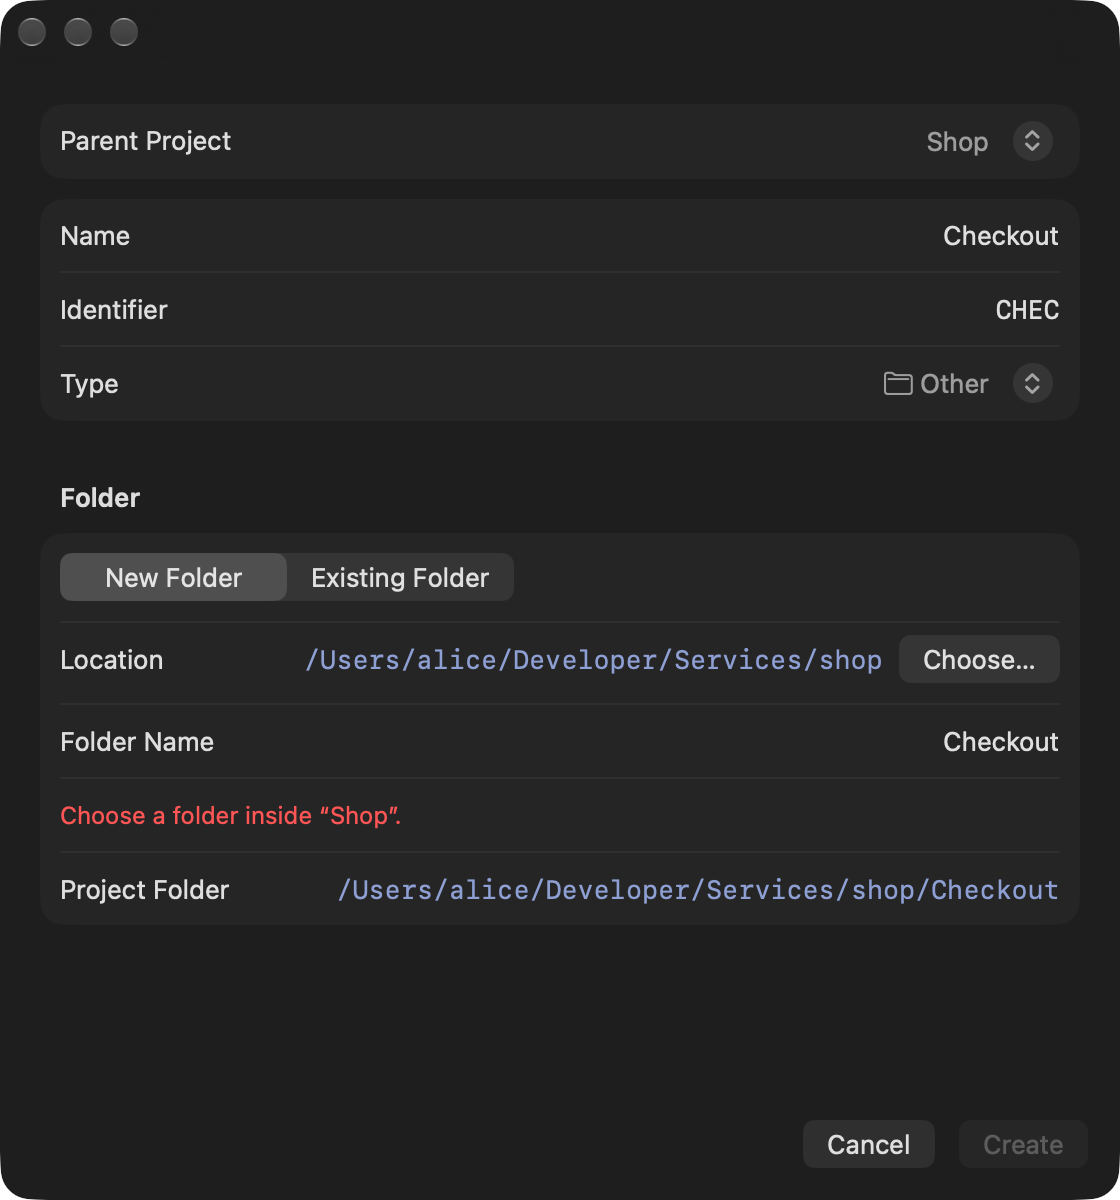
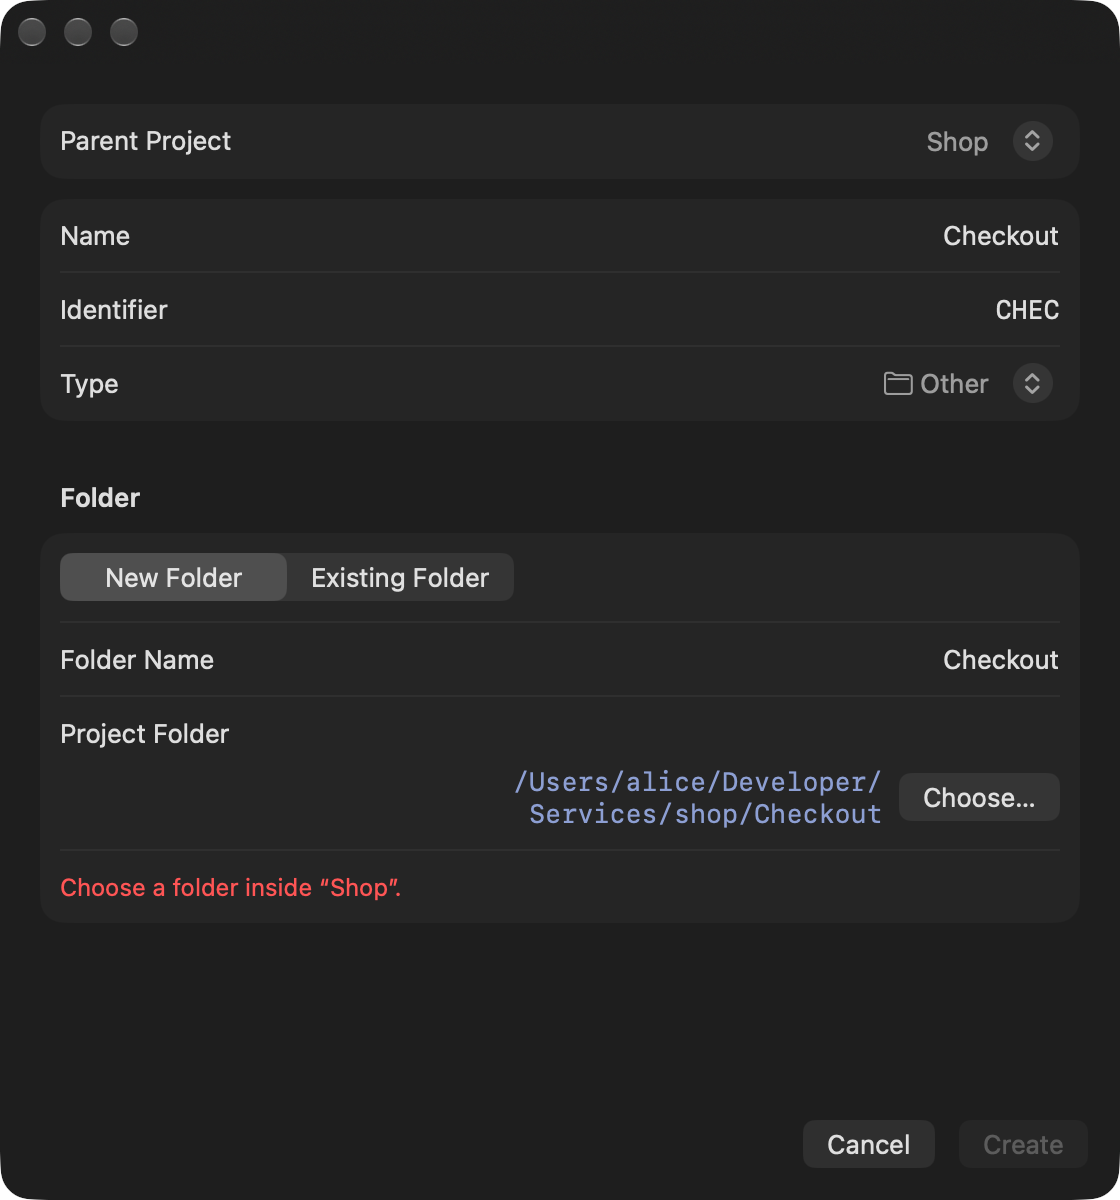
New Project: one Project Folder row with Choose…
The Location row showed the same path as Project Folder, one level up, and
Existing Folder's Folder row the same path again. Both modes now have a
single Project Folder row, the full path with Choose…: for a new folder it
picks the folder that will hold it, for an existing one the folder itself.

diff --git a/HephaestusV3Kit/Sources/ProjectsKit/NewProjectSheet.swift b/HephaestusV3Kit/Sources/ProjectsKit/NewProjectSheet.swift
@@ -64,24 +64,18 @@ struct NewProjectSheet: View {
                     .pickerStyle(.segmented)
                     .labelsHidden()
                     .accessibilityIdentifier("newProject.folderMode")
+                    // One path row: the project's folder, and Choose… for where it goes (a new folder's location) or
+                    // which folder it is (an existing one).
                     switch model.folderMode {
                     case .newFolder:
-                        pathRow(String(localized: "Location", bundle: #bundle), path: model.location.path, choice: .location)
                         TextField(String(localized: "Folder Name", bundle: #bundle),
                                   text: Binding { model.folderName } set: { model.setFolderName($0) })
                             .accessibilityIdentifier("newProject.folderName")
+                        projectFolderRow(choice: .location)
                     case .existingFolder:
-                        pathRow(String(localized: "Folder", bundle: #bundle), path: model.existingFolder?.path, choice: .existingFolder)
+                        projectFolderRow(choice: .existingFolder)
                     }
                     message(model.folderMessage)
-                    LabeledContent(String(localized: "Project Folder", bundle: #bundle)) {
-                        Text(verbatim: model.projectFolder ?? "—")
-                            .monospaced()
-                            .lineLimit(2)
-                            .truncationMode(.middle)
-                            .foregroundStyle(.textSecondary)
-                    }
-                    .accessibilityIdentifier("newProject.projectFolder")
                     if let inside = model.insideProject {
                         Text("This folder is inside “\(inside.name)”: the new project becomes its sub project.", bundle: #bundle)
                             .font(.callout)
@@ -116,20 +110,25 @@ struct NewProjectSheet: View {
         .accessibilityIdentifier("newProject.parent")
     }
 
-    private func pathRow(_ title: String, path: String?, choice: NewProjectModel.FolderChoice) -> some View {
-        LabeledContent(title) {
+    /// The project's folder, in full, and Choose…: for a new folder, the folder that will hold it (the folder name is
+    /// added to it); for an existing folder, the folder itself.
+    private func projectFolderRow(choice: NewProjectModel.FolderChoice) -> some View {
+        LabeledContent(String(localized: "Project Folder", bundle: #bundle)) {
             HStack(spacing: 8) {
-                Text(verbatim: path ?? "")
+                Text(verbatim: model.projectFolder ?? "—")
                     .monospaced()
-                    .lineLimit(1)
+                    .lineLimit(2)
                     .truncationMode(.middle)
                     .foregroundStyle(.textSecondary)
                 Button(String(localized: "Choose…", bundle: #bundle)) {
                     model.chooseFolder(for: choice)
                 }
+                .help(choice == .location ? String(localized: "Choose the folder that will hold the project's folder", bundle: #bundle)
+                    : String(localized: "Choose the project's folder", bundle: #bundle))
                 .accessibilityIdentifier("newProject.choose")
             }
         }
+        .accessibilityIdentifier("newProject.projectFolder")
     }
 
     @ViewBuilder private func message(_ text: String?) -> some View {

diff --git a/docs/ui/projects.md b/docs/ui/projects.md
@@ -241,11 +241,11 @@ project of the selected project. The rules are those of [Data › Changes](../da
 | **Type** | Pop-up: Service, App, Library, Other | Service when the project's folder holds `go.mod`, else Other, until the user picks one | — |
 | **Parent Project** (New Project) | Pop-up: None, a divider, every project indented by depth | The innermost project whose folder holds the project's folder, else None, until the user picks one | Picking a project moves the location to its folder. |
 | **Folder** | Segmented control: **New Folder**, **Existing Folder** | New Folder; Existing Folder after Create Project Here… | — |
-| **Location** (New Folder) | The path, monospaced, and **Choose…** (a folder panel) | The folder holding the selected project's top-level folder; without a selection, `~/Developer` when it exists, else the home folder | — |
 | **Folder Name** (New Folder) | Text field | The name, `/` and `:` made `-`, trimmed, without leading dots, until the user types in the field, and again from the next change of the name once it is cleared | 1–255 UTF-8 bytes, no `/`, not starting with `.`: "Enter a folder name without “/” that does not start with “.”." |
-| **Folder** (Existing Folder) | The path and **Choose…** | None, or the folder of Create Project Here… | "Choose a folder." while none |
-| **Project Folder** | The resulting path, monospaced, secondary | — | With a parent: the folder must be inside the parent's: "Choose a folder inside “<parent>”." |
+| **Project Folder** | The project's folder in full, monospaced, secondary, on up to two lines, and **Choose…** (a folder panel). With **New Folder**, Choose… picks the folder that will hold it, and the folder name is added to it; with **Existing Folder**, the folder itself. | New Folder: inside the folder holding the selected project's top-level folder; without a selection, `~/Developer` when it exists, else the home folder; a parent's folder once a parent is picked. Existing Folder: none ("—"), or the folder of Create Project Here… | Existing Folder without a folder: "Choose a folder."; with a parent: the folder must be inside the parent's: "Choose a folder inside “<parent>”." |
 
+- There is no separate location row: the Project Folder row shows where the project goes, in full, and its
+  **Choose…** changes it (the owner's choice: a location and the resulting path showed the same path twice).
 - When the user picked **None** for a folder inside a project, a note says: "This folder is inside
   “<name>”: the new project becomes its sub project."
 - **Create** (default button) is enabled when every row keeps its rule. It creates the folder when needed,

diff --git a/docs/decisions.md b/docs/decisions.md
@@ -35,6 +35,7 @@ which rules the app enforces, and never tells Claude how to work.
 | Question | Default chosen | Where |
 | --- | --- | --- |
 | What identifier does a name suggest? | The owner's rule: a name that starts with a capital gives its capitals (`AntiBeeCycle` → `ABC`, `YeenCloud` → `YC`), at most eight; a name with fewer than two capitals, or that starts with another character, its first four letters. | [Data › Ids](data.md#ids) |
+| Where does New Project show where the project goes? | One Project Folder row, the full path with Choose…, in both folder modes: the owner found the location row redundant with it. | [UI › Projects › New Project](ui/projects.md#new-project) |
 | What does clearing the identifier or the folder name do? | The owner's rule: the field follows the name again from the name's next change. The identifier's message ("Enter an identifier.") still shows while it is empty. | [UI › Projects › New Project](ui/projects.md#new-project) |
 | How are outside changes applied? | A batch that matters loads the whole tree again and compares it with memory, rather than handling each path on its own: the projects are few and their files small, and one rule covers renames, moves and dropped events. | [Data › Outside changes](data.md#outside-changes) |
 | What does a project whose file became invalid show? | The version loaded before, with a file issue giving the reason. | same |
